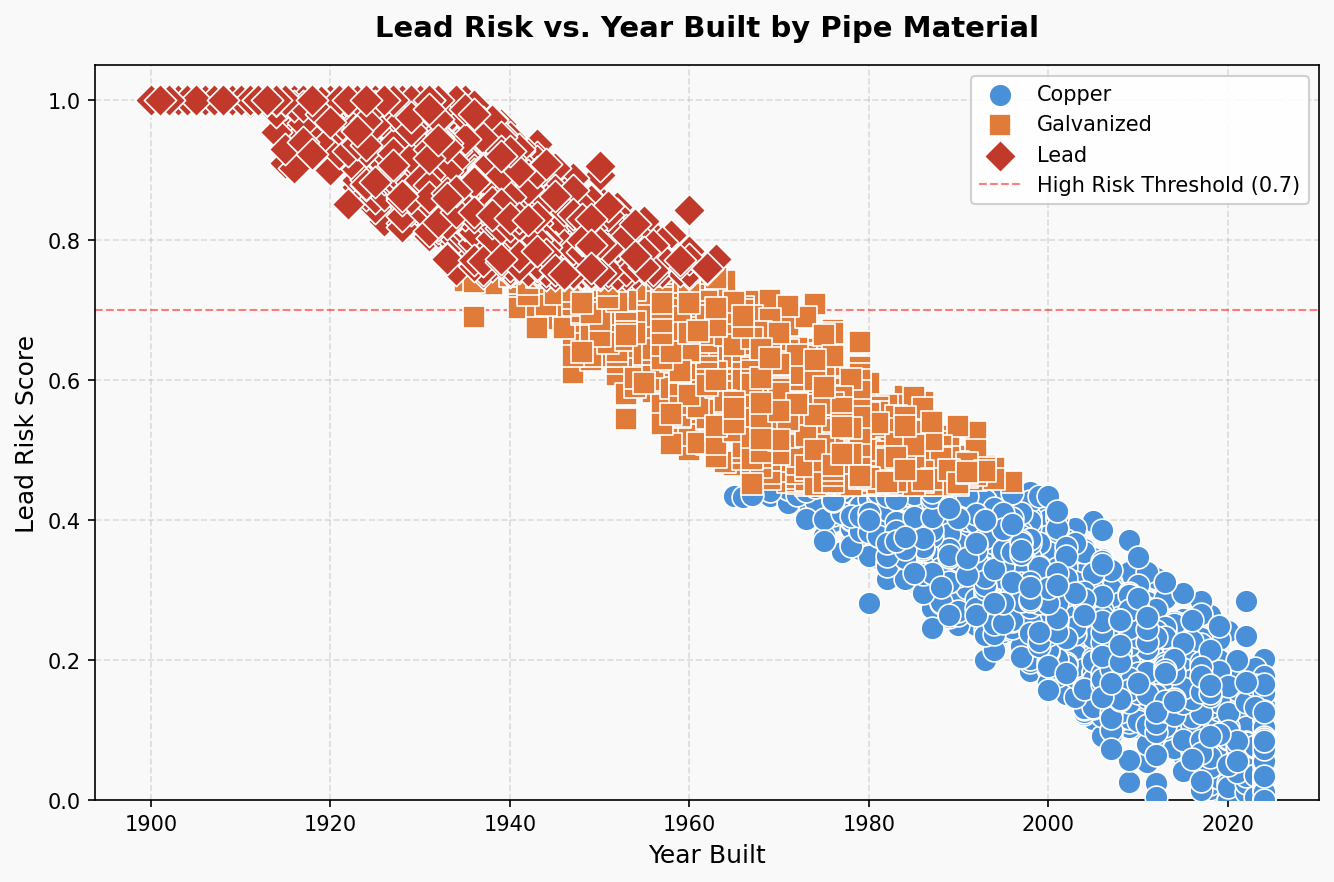
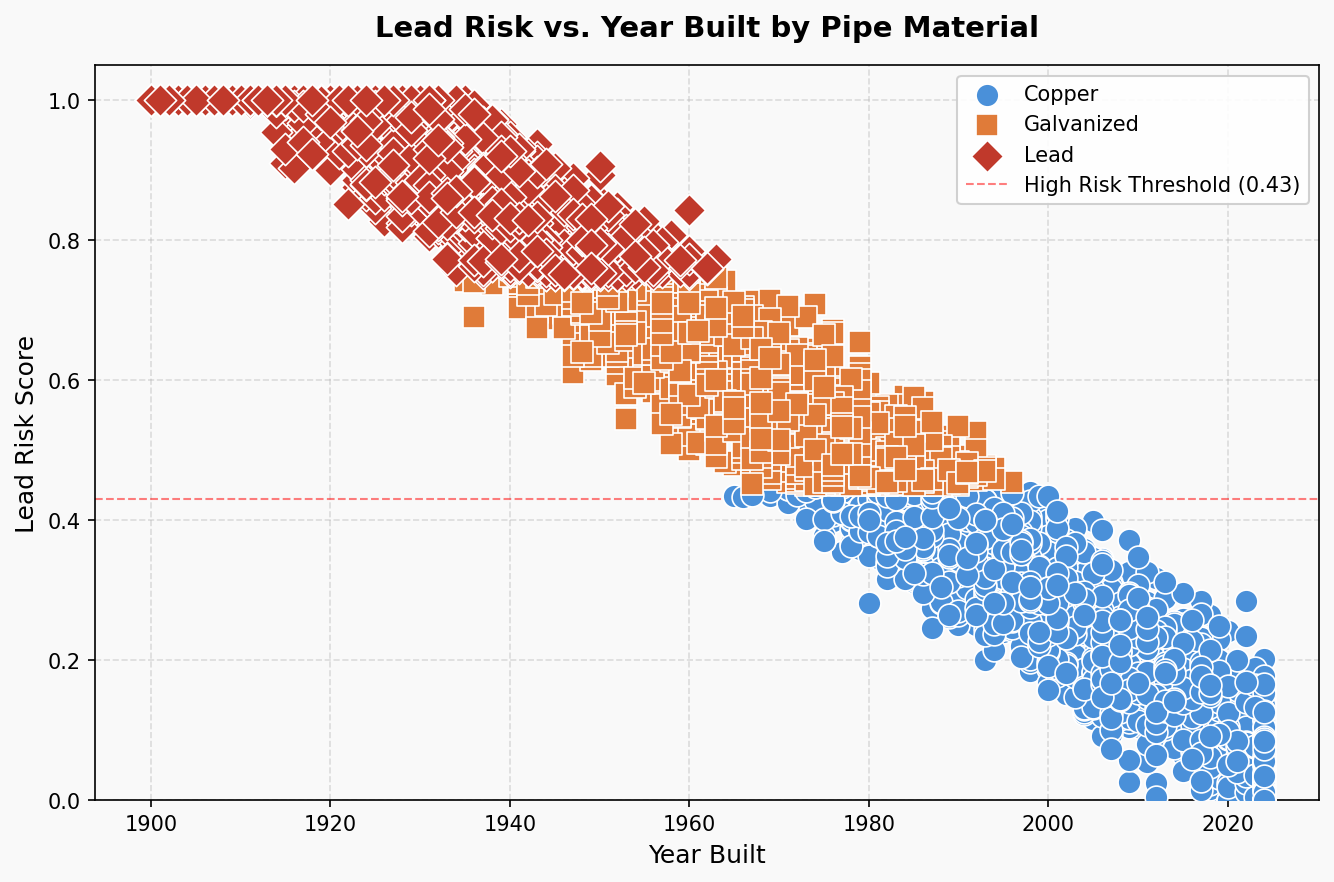
updated images and data analysis

Changed region(s): [[0.7069, 0.0918, 0.9835, 0.2143]]

diff --git a/src/dataAnalysis.py b/src/dataAnalysis.py
@@ -40,7 +40,7 @@ def graph_data():
     ax.set_ylabel('Lead Risk Score', fontsize=12)
     ax.set_title('Lead Risk vs. Year Built by Pipe Material', fontsize=14, fontweight='bold', pad=14)
     ax.set_ylim(0, 1.05)
-    ax.axhline(0.7, color='red', linestyle='--', linewidth=1, alpha=0.5, label='High Risk Threshold (0.7)')
+    ax.axhline(0.43, color='red', linestyle='--', linewidth=1, alpha=0.5, label='High Risk Threshold (0.43)')
     ax.legend(frameon=True, framealpha=0.9, fontsize=10)
     ax.grid(True, linestyle='--', alpha=0.4)
     
